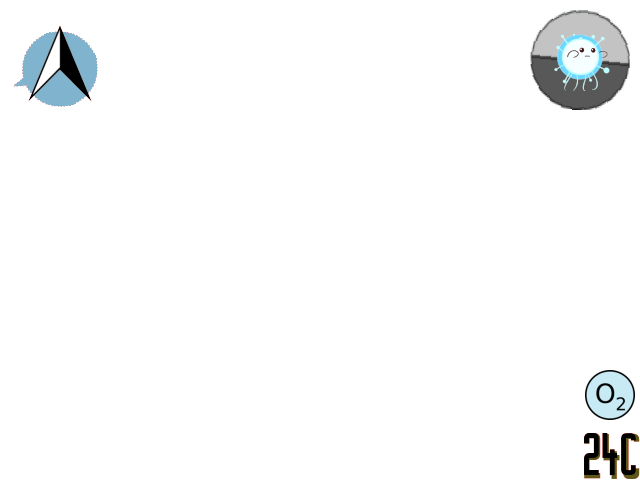
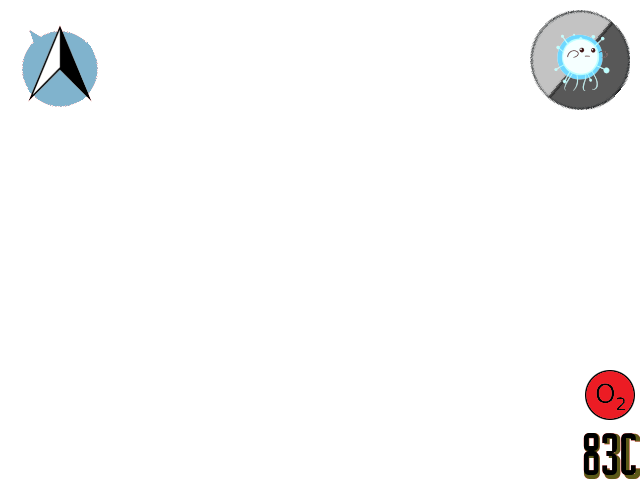
added LiFo thread inter-communication

diff --git a/HUD.py b/HUD.py
@@ -1,9 +1,10 @@
 from PIL import Image, ImageDraw, ImageFont
 import threading
+import queue
 import math
 import time
 from sensor import *
-ready = 1
+buff = queue.LifoQueue()
 
 class Drawthread(threading.Thread):
     def __init__(self):
@@ -11,10 +12,9 @@ class Drawthread(threading.Thread):
 
     def run(self):
         while 1:
-            # self.test += 1
-            # Overlay(45+self.test, 12+self.test, -50+self.test, self.test)
             sensoPlug = GetData()
-            Overlay(sensoPlug[2], sensoPlug[1], sensoPlug[3], sensoPlug[0],'hud.png')
+            buff.put(sensoPlug)
+            #Overlay(sensoPlug[2], sensoPlug[1], sensoPlug[3], sensoPlug[0],'hud.png')
             
         
             

diff --git a/wisp_gui.py b/wisp_gui.py
@@ -8,7 +8,7 @@ import threading
 #from sensor import *
 import cv2
 
-buffFrame = 1
+
 
 class HUD(QWidget):
     def __init__(self):
@@ -88,6 +88,9 @@ class Video(QWidget):
     # Draws hud overtop frame    
     @pyqtSlot()
     def refresh(self):
+        if not buff.empty():
+            sensoPlug = buff.get()
+            Overlay(sensoPlug[2], sensoPlug[1], sensoPlug[3], sensoPlug[0], 'hud.png')
         self.gui.setPixmap(QPixmap('hud.png'))
         
         
